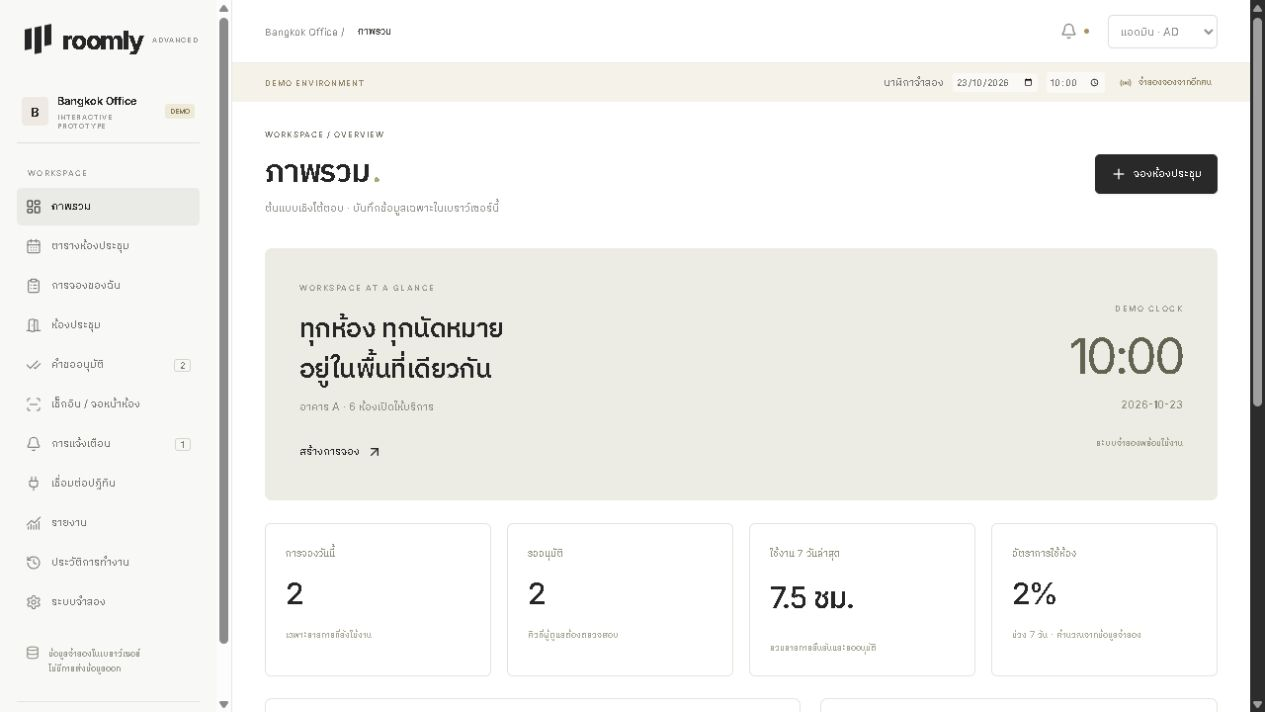
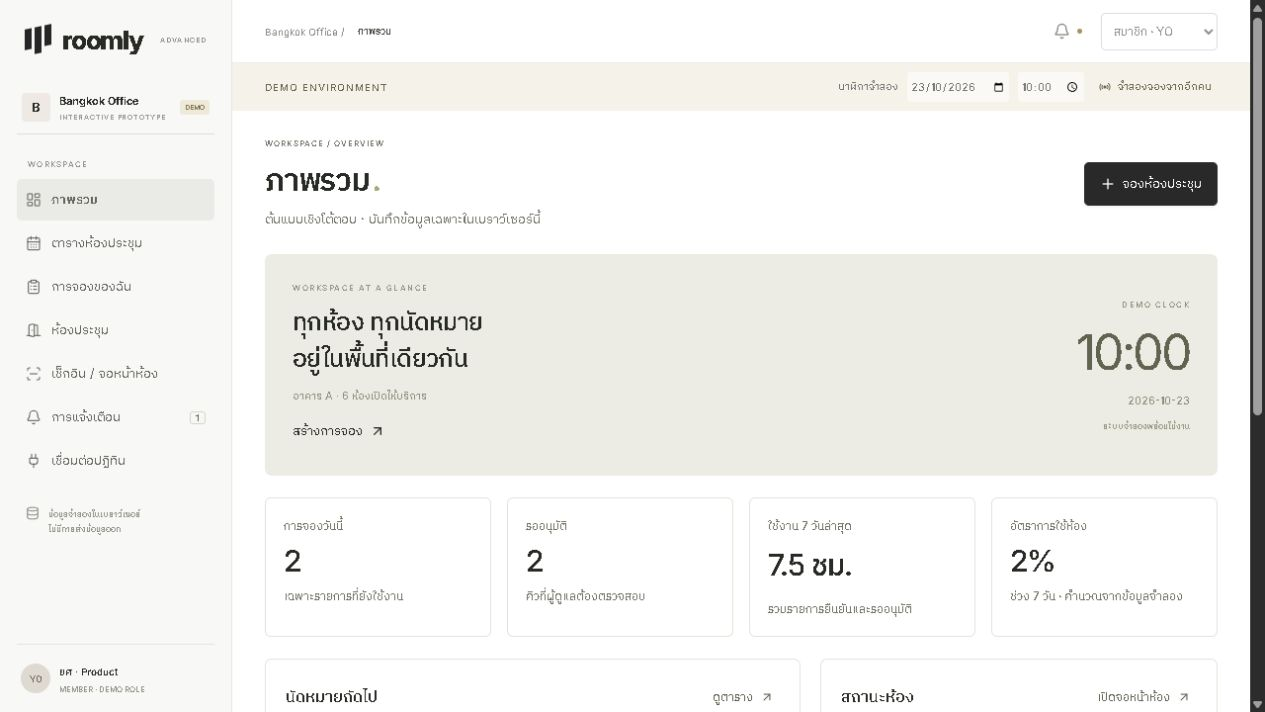
Improve dashboard readability and small-screen layouts

diff --git a/src/advanced.css b/src/advanced.css
@@ -1,1 +1,47 @@
 .advanced-app .sidebar{width:235px}.advanced-app .main-shell{margin-left:235px}.advanced-app main{padding-top:28px}.advanced-app .sidebar nav{gap:2px}.advanced-app nav button{padding:10px 9px}.demo-workspace{display:flex;gap:9px;align-items:center;margin:25px 0;padding:12px 5px;border-bottom:1px solid #ddd}.demo-workspace b{font-size:11px}.demo-workspace small{display:block;font-size:7px;color:#999;margin-top:5px;letter-spacing:.8px}.demo-tag{font-size:7px;margin-left:auto;background:#eee9d9;color:#877952;padding:3px 5px;border-radius:3px}.sidebar-demo-note{display:flex;gap:9px;font-size:9px;color:#96968b;line-height:1.7;margin:25px 9px}.header-tools select,.schedule-controls select,.list-toolbar select,.filter-row select{padding:8px;border:1px solid #ddd;border-radius:5px;background:white;font-size:11px}.bell-dot{width:5px;height:5px;border-radius:50%;background:#a99162}.demo-strip{background:#f4f2e9;padding:9px 33px;display:flex;justify-content:space-between;align-items:center;color:#948569;font-size:8px;gap:10px}.demo-strip>span{letter-spacing:1px;white-space:nowrap}.demo-strip>div,.demo-strip label{display:flex;align-items:center;gap:9px}.demo-strip input{border:0;background:#fff8;padding:3px;font-size:9px;border-radius:3px}.demo-strip button{font-size:9px}.overview-banner{background:#ecece4;padding:30px 35px;display:flex;justify-content:space-between;align-items:center;border-radius:7px;margin-bottom:23px;gap:20px}.overview-banner>div>span{font-size:8px;letter-spacing:1.5px;color:#939583}.overview-banner h2{font-size:27px;line-height:1.5;letter-spacing:-.6px;font-weight:500;margin:15px 0 10px}.overview-banner p{font-size:11px;color:#8e9180}.overview-banner button{padding:10px 0;margin-top:17px;font-size:11px}.banner-calendar{text-align:right;min-width:160px}.banner-calendar b{display:block;font-size:50px;letter-spacing:-3px;font-weight:400;color:#616451;margin:12px 0}.banner-calendar small{display:block;font-size:11px;color:#8d8d7c}.banner-calendar>div{font-size:9px;margin-top:25px;color:#9b9b87}.metric-grid{display:grid;grid-template-columns:repeat(4,1fr);gap:16px;margin:22px 0}.metric{padding:20px;border:1px solid #e3e3db;border-radius:6px}.metric>span{font-size:10px;color:#929280}.metric>b{display:block;font-size:30px;font-weight:500;margin:14px 0;letter-spacing:-1px}.metric>small{font-size:9px;color:#aaa997}.split-panels{display:grid;grid-template-columns:1.35fr 1fr;gap:20px}.panel{border:1px solid #e4e4dc;border-radius:7px;background:white;overflow:hidden}.panel-heading{padding:20px;display:flex;justify-content:space-between;align-items:center;border-bottom:1px solid #ededE6;gap:10px}.panel-heading h2{font-size:14px;font-weight:500}.panel-heading>span,.panel-heading button{font-size:9px;color:#999987}.upcoming-list>div{display:flex;align-items:center;gap:12px;padding:17px 20px;border-bottom:1px solid #f0f0e9}.date-tile{background:#f4f4ee;padding:7px 10px;min-width:42px;text-align:center;border-radius:4px}.date-tile b{display:block;font-size:17px;font-weight:500}.date-tile small{font-size:8px;color:#aaa}.grow{flex:1}.upcoming-list .grow>b{font-size:11px;font-weight:500}.upcoming-list p{font-size:9px;color:#aaa;margin-top:5px}.room-status-line{display:flex;gap:10px;align-items:center;padding:18px 20px;font-size:11px;border-bottom:1px solid #f0f0e9}.room-status-line small{margin-left:auto;color:#9e9e8b;font-size:9px}.status-badge{display:inline-flex;align-items:center;gap:5px;font-size:8px;padding:4px 7px;border-radius:4px;background:#f0f0eb;color:#8d8d7c;white-space:nowrap}.status-badge i{height:4px;width:4px;border-radius:50%;background:currentColor}.status-badge.confirmed{background:#eaf0ea;color:#647d64}.status-badge.pending{background:#faf0dd;color:#aa8540}.status-badge.checked_in{background:#e8eef7;color:#5e79a5}.status-badge.rejected,.status-badge.no_show{background:#f6e9e4;color:#aa7a67}.schedule-controls,.list-toolbar{display:flex;gap:10px;align-items:center;flex-wrap:wrap;margin-bottom:20px}.schedule-controls input,.list-toolbar input{padding:8px;border:1px solid #ddd;border-radius:4px;font-size:11px;background:white}.segmented{display:flex;border:1px solid #ddd;border-radius:5px;padding:3px}.segmented button{padding:6px 11px;font-size:10px;border-radius:3px;color:#aaa}.segmented .chosen{background:#ededE7;color:#333}.calendar-help{display:flex;gap:6px;font-size:9px;color:#aaa;margin-bottom:14px}.advanced-calendar{max-height:640px;overflow:auto;border:1px solid #deded5;border-radius:6px;scrollbar-width:thin}.advanced-calendar-grid{display:grid;grid-template-columns:55px repeat(var(--cols),minmax(150px,1fr));min-width:calc(55px + var(--cols)*150px)}.calendar-corner,.advanced-column-title{position:sticky;top:0;z-index:4;background:#fafaf7;height:65px;padding:17px 12px;border-bottom:1px solid #ddd}.calendar-corner{font-size:8px;color:#aaa;padding:25px 8px}.advanced-column-title{border-left:1px solid #e5e5dc}.advanced-column-title b{font-size:11px;font-weight:500}.advanced-column-title small{display:block;color:#aaa;font-size:8px;margin-top:7px}.time-cell{padding:13px 7px;font-size:9px;color:#aaa;border-bottom:1px solid #eee}.calendar-slot{position:relative;min-height:44px;border-bottom:1px solid #eaeae2;border-left:1px solid #eaeae2;padding:4px;background:white}.calendar-slot.occupied{background:#f7f7f1}.slot-add{position:absolute;inset:0;opacity:0;width:100%;height:100%;background:#efefe7;color:#999}.calendar-slot:hover>.slot-add{opacity:.7}.advanced-event{position:relative;background:var(--event-bg);color:var(--event-text);border-left:2px solid var(--event-border);border-radius:3px;z-index:1;padding:7px;margin-bottom:3px}.advanced-event>button{display:block;text-align:left;padding:0;width:100%;background:none}.advanced-event span{font-size:8px}.advanced-event b{display:block;font-size:10px;font-weight:500;margin-top:5px}.advanced-event small{display:block;font-size:8px;margin-top:5px}.advanced-event>div{display:flex;justify-content:space-between;margin-top:6px}.advanced-event .status-badge{font-size:7px;padding:2px 4px}.extend{font-size:8px;color:inherit;padding:2px}.data-table-wrap{overflow:auto;border:1px solid #e4e4dc;border-radius:6px}.data-table{width:100%;border-collapse:collapse;min-width:700px;text-align:left;font-size:11px}.data-table th{padding:15px 18px;background:#f8f8f4;font-weight:400;color:#999;font-size:10px}.data-table td{padding:17px 18px;border-top:1px solid #ebebe3}.data-table b{font-size:11px;font-weight:500}.data-table small{display:block;color:#999;font-size:9px;margin-top:6px}.table-actions{display:flex;gap:5px}.section-intro{margin-bottom:20px}.section-intro h2{font-size:18px;font-weight:500}.section-intro p{color:#999;font-size:11px;margin-top:7px}.approval-grid{display:grid;grid-template-columns:repeat(2,1fr);gap:20px}.approval-card{padding:22px}.approval-top{display:flex;justify-content:space-between;align-items:center;margin-bottom:20px;font-size:10px;color:#999}.approval-card h3{font-size:17px;font-weight:500;margin-bottom:10px}.approval-card p{font-size:11px;color:#999}.approval-person{display:flex;gap:7px;margin:20px 0;font-size:11px;color:#888}.approval-card label{margin-top:20px}.approval-actions{display:flex;justify-content:flex-end;gap:10px;margin-top:20px}.advanced-app label,.adv-dialog label{font-size:11px;color:#777}.approval-card input,.adv-dialog input,.adv-dialog select,.adv-dialog textarea{display:block;border:1px solid #dddcd2;padding:10px;border-radius:5px;width:100%;background:white;font-size:12px;margin-top:7px}.approval-card label,.adv-dialog label{display:block;margin-bottom:17px}.room-policy{display:flex;justify-content:space-between;font-size:9px;color:#999;margin-bottom:15px}.muted{font-size:10px!important;color:#aaa!important;line-height:1.8}.room-card p.muted{margin-bottom:10px}.door-display{background:#edf1e7;border:1px solid #dde3d6;border-radius:9px;padding:35px;display:grid;grid-template-columns:1fr 1fr;gap:30px;margin-bottom:24px}.door-display.busy{background:#f3ede1;border-color:#e7deca}.door-display>div>span{font-size:9px;letter-spacing:1px;color:#8b927d}.door-display h2{font-size:36px;font-weight:500;letter-spacing:-1px;margin:15px 0}.door-display p{font-size:13px;color:#8c947e}.door-clock{font-size:60px;display:block;font-weight:400;letter-spacing:-3px;margin-top:20px;color:#606c53}.door-display small{font-size:10px;color:#939d87}.door-next{padding:15px 0 0 25px;border-left:1px solid #dce1d0}.door-next h3{font-size:22px;font-weight:500;margin:25px 0 10px}.door-code{display:flex;gap:15px;align-items:center;margin-top:30px}.door-code svg{flex-shrink:0;border-radius:4px}.door-code p{font-size:9px;line-height:1.9}.wall-mode{min-height:440px}.checkin-row{display:flex;align-items:center;gap:15px;padding:20px;border-top:1px solid #eee}.checkin-row>div{flex:1}.checkin-row b{font-size:12px;font-weight:500}.checkin-row p{font-size:10px;color:#999;margin-top:6px}.qr-dialog{text-align:center;padding:30px}.qr-dialog h3{margin:20px 0 10px;font-size:18px;font-weight:500}.qr-dialog p{font-size:11px;color:#999;margin-bottom:15px}.simulation-callout{display:flex;align-items:center;gap:15px;padding:20px;background:#f5f4ec;border:1px solid #e7e5d8;border-radius:6px;margin-bottom:23px;color:#8a866c}.simulation-callout b{font-size:13px;font-weight:500}.simulation-callout p{font-size:10px;margin-top:8px}.integration-grid{display:grid;grid-template-columns:1fr 1fr;gap:22px}.integration-card{padding:30px}.provider-logo{height:46px;width:46px;display:grid;place-items:center;border:1px solid #ddd;border-radius:10px;font-size:24px;font-weight:600;color:#6881b0}.provider-logo.outlook{color:#488cb5}.integration-card h2{font-size:21px;font-weight:500;margin:24px 0 10px}.integration-card p{color:#999;font-size:11px}.connection-state{display:block;font-size:10px;color:#aaa;margin:25px 0 16px}.connection-state.connected{color:#6b8c6b}.sync-panel{display:flex;justify-content:space-between;align-items:center;padding:25px;margin-top:24px}.sync-panel h2{font-size:14px;font-weight:500}.sync-panel p{font-size:10px;color:#999;margin-top:8px}.integration-confirm{padding:25px;font-size:12px;line-height:2}.integration-confirm .primary{margin-top:20px}.ics-export{display:flex;justify-content:space-between;align-items:center;font-size:10px;color:#999;padding:24px 0}.report-panel{padding:24px}.report-panel h2{font-size:15px;font-weight:500}.report-panel>p{font-size:10px;color:#aaa;margin:8px 0 25px}.bar-row{display:flex;align-items:center;gap:12px;margin:20px 0;font-size:10px}.bar-row>span{width:100px;color:#777}.bar-row>div{height:7px;background:#f1f1e8;border-radius:2px;flex:1;overflow:hidden}.bar-row i{display:block;height:100%;background:#a6ad91}.bar-row b{font-weight:400;width:25px;text-align:right;color:#888}.peak-chart{display:flex;gap:10px;align-items:flex-end;height:210px;padding-top:15px}.peak-chart>div{flex:1;display:flex;flex-direction:column;align-items:center;gap:10px;font-size:8px;color:#aaa}.peak-chart i{display:block;background:#b0b6c8;width:100%;border-radius:3px 3px 0 0}.peak-chart b{font-size:9px;font-weight:400}.report-footnote{margin-top:18px}.audit-list>div{display:flex;gap:15px;padding:19px 24px;border-bottom:1px solid #eee}.audit-dot{width:6px;height:6px;background:#c3c3ad;border-radius:50%;margin-top:5px}.audit-list b{font-size:12px;font-weight:500}.audit-list p{font-size:10px;color:#888;margin-top:7px}.audit-list small{display:block;font-size:9px;color:#aaa;margin-top:9px}.notifications-list>button{display:flex;align-items:flex-start;width:100%;text-align:left;padding:22px;gap:15px;border-bottom:1px solid #eee}.notifications-list>button.unread{background:#fafaf5}.notification-dot{width:6px;height:6px;background:#ddd;border-radius:50%;margin-top:5px}.unread .notification-dot{background:#879570}.notifications-list b{font-size:12px;font-weight:500}.notifications-list p{font-size:11px;color:#999;margin-top:7px}.notifications-list small{display:block;font-size:9px;color:#aaa;margin-top:10px}.new-label{margin-left:auto;font-size:8px;color:#8c9579}.settings-panel{padding:25px;margin-bottom:20px}.settings-panel h2{font-size:16px;font-weight:500;margin-bottom:20px}.user-row{display:flex;gap:12px;align-items:center;padding:17px 0;border-top:1px solid #eee}.user-row>div{flex:1}.user-row b{font-size:12px;font-weight:500}.user-row p{font-size:10px;color:#999;margin-top:6px}.scenario-actions{display:flex;gap:12px;flex-wrap:wrap;margin-bottom:20px}.adv-overlay{padding:24px!important;justify-content:center!important}.adv-dialog{background:#fff;width:550px;max-width:100%;max-height:92vh;overflow:auto;border-radius:9px;box-shadow:0 20px 100px #0002}.adv-dialog.wide{width:1040px}.dialog-top{display:flex;align-items:center;justify-content:space-between;padding:24px 28px;border-bottom:1px solid #eee}.dialog-top small{font-size:8px;color:#aaa;letter-spacing:1px}.dialog-top h2{font-size:23px;font-weight:500;margin-top:9px}.booking-editor{display:grid;grid-template-columns:minmax(0,1fr) 245px}.editor-main{padding:25px}.editor-summary{padding:28px 22px;background:#f8f8f3;border-left:1px solid #e8e8df}.summary-step{font-size:8px;color:#aaa;letter-spacing:1px}.editor-summary h3{font-size:19px;font-weight:500;margin:23px 0 10px}.editor-summary>p{font-size:11px;color:#999}.editor-summary dl{display:grid;gap:9px;margin:25px 0}.editor-summary dt{font-size:9px;color:#aaa;margin-top:7px}.editor-summary dd{font-size:11px;margin:0;color:#666}.summary-note{font-size:10px!important;line-height:1.8;margin-top:20px!important}.dialog-actions{display:flex;justify-content:flex-end;gap:12px;border-top:1px solid #eee;padding:20px 25px;grid-column:1/-1}.editor-error{grid-column:1/-1;margin:0 25px 15px}.room-rule{display:flex;gap:10px;font-size:9px;color:#999;margin-bottom:18px;align-items:center;flex-wrap:wrap}.form-grid.three{grid-template-columns:repeat(3,1fr)}.adv-dialog label>span{display:flex;align-items:center;gap:5px}.adv-dialog .scheduler-times{max-height:300px}.adv-dialog .scheduler-slots{gap:7px}.adv-dialog .scheduler-slots button{padding:7px}.check-label{display:flex!important;align-items:center;gap:8px!important;font-size:11px!important}.check-label input{width:13px!important;height:13px!important;margin:0!important;accent-color:#333}.room-edit-form{padding:24px}.room-edit-form fieldset{border:1px solid #eee;border-radius:5px;padding:15px;margin:10px 0 20px;display:flex;flex-wrap:wrap;gap:15px}.room-edit-form legend{font-size:10px;color:#999}.room-edit-form fieldset label{margin:0}.closure-tags{display:flex;gap:7px;flex-wrap:wrap;margin:12px 0}.closure-tags button{font-size:10px;padding:7px;background:#f4f4ed;border-radius:4px}.confirm-body{padding:25px;line-height:1.9;color:#888;font-size:12px}.confirm-body .check-label{margin-top:20px}.toast{max-width:calc(100vw - 25px);white-space:normal;font-size:11px}.toast button{color:white;padding:2px}.advanced-app button:disabled,.adv-dialog button:disabled{opacity:.45;cursor:not-allowed}.advanced-app .room-card-footer button:disabled{opacity:.3}@media(max-width:1100px){.split-panels{grid-template-columns:1fr}.advanced-app .sidebar{width:210px}.advanced-app .main-shell{margin-left:210px}.metric-grid{gap:10px}.metric{padding:16px}.metric>b{font-size:25px}.demo-strip{padding:9px 24px}.booking-editor{grid-template-columns:minmax(0,1fr) 200px}.scheduler-content{grid-template-columns:1fr}.editor-main .scheduler-slots{grid-template-columns:repeat(5,1fr)}}@media(max-width:850px){.advanced-app .sidebar{display:none}.advanced-app .sidebar.open{display:flex}.advanced-app .main-shell{margin-left:0}.demo-strip{flex-wrap:wrap}.advanced-app header{padding:0 17px}.advanced-app .mobile-toggle{display:inline-flex}.booking-editor{grid-template-columns:1fr}.editor-summary{display:none}.adv-dialog.wide{max-width:660px}}@media(max-width:600px){.overview-banner{padding:25px;align-items:flex-start}.overview-banner h2{font-size:22px}.banner-calendar{min-width:90px}.banner-calendar b{font-size:33px}.banner-calendar>div{display:none}.metric-grid{grid-template-columns:1fr 1fr}.approval-grid,.integration-grid{grid-template-columns:1fr}.demo-strip>div{flex-wrap:wrap}.demo-strip label{font-size:8px}.demo-strip{padding:10px 16px}.demo-strip>span{display:none}.header-tools select{max-width:140px;font-size:10px}.advanced-app header>div{gap:7px}.advanced-app header>div>span{display:none}.door-display{grid-template-columns:1fr;padding:25px}.door-next{padding:20px 0 0;border-left:0;border-top:1px solid #ddd}.door-display h2{font-size:30px}.door-clock{font-size:45px}.checkin-row{flex-wrap:wrap}.checkin-row>div{flex-basis:100%}.adv-overlay{padding:10px!important}.dialog-top{padding:20px}.editor-main{padding:16px}.adv-dialog .form-grid{gap:10px}.adv-dialog .form-grid:not(.three){grid-template-columns:1fr}.dialog-top h2{font-size:20px}.scheduler-content{padding:10px}.scheduler-calendar .rdp-root{max-width:290px}.sync-panel{gap:15px;flex-wrap:wrap}.ics-export{gap:15px}.schedule-controls{gap:7px}.panel-heading{padding:16px}.upcoming-list>div{padding:15px;gap:8px}.upcoming-list .status-badge{font-size:7px}.user-row{flex-wrap:wrap}}
+
+/* Readable type and compact layouts for the interactive prototype. */
+.advanced-app { color: #282b25; }
+.advanced-app nav button { min-height: 42px; font-size: 13px; color: #62665c; }
+.advanced-app .page-heading { margin-bottom: 24px; }
+.advanced-app .page-heading p { font-size: 13px; color: #717568; }
+.advanced-app .overview-banner { padding: 24px 28px; margin-bottom: 18px; }
+.advanced-app .overview-banner h2 { margin: 10px 0; font-size: 25px; }
+.advanced-app .overview-banner button { margin-top: 5px; min-height: 40px; font-size: 13px; }
+.advanced-app .banner-calendar > div { margin-top: 12px; }
+.advanced-app .metric { padding: 18px; }
+.advanced-app .metric > span, .advanced-app .metric > small { font-size: 12px; color: #707566; line-height: 1.6; }
+.advanced-app .metric > b { margin: 8px 0; }
+.advanced-app .panel-heading h2 { font-size: 16px; }
+.advanced-app .panel-heading button { font-size: 12px; color: #5e6653; min-height: 36px; }
+.advanced-app .upcoming-list .grow > b, .advanced-app .room-status-line, .advanced-app .data-table b { font-size: 13px; }
+.advanced-app .upcoming-list p, .advanced-app .room-status-line small, .advanced-app .data-table small { font-size: 12px; color: #707568; line-height: 1.6; }
+.advanced-app .status-badge { font-size: 11px; padding: 5px 8px; }
+.advanced-app .data-table { font-size: 13px; }
+.advanced-app .data-table th { font-size: 12px; color: #656b5e; }
+.advanced-app .primary, .advanced-app .secondary, .adv-dialog .primary, .adv-dialog .secondary { min-height: 42px; font-size: 13px; }
+.advanced-app .calendar-help, .advanced-app .section-intro p { font-size: 12px; color: #68705f; line-height: 1.7; }
+.advanced-app .demo-strip { font-size: 10px; color: #6e664f; }
+.advanced-app .demo-strip input, .advanced-app .demo-strip button { font-size: 11px; min-height: 30px; }
+.advanced-app .header-tools select { font-size: 12px; min-height: 38px; }
+.advanced-app .advanced-column-title b { font-size: 13px; }
+.advanced-app .advanced-column-title small, .advanced-app .time-cell { font-size: 11px; color: #6f7466; }
+.advanced-app .advanced-event b { font-size: 12px; }
+.advanced-app .advanced-event span, .advanced-app .advanced-event small { font-size: 10px; }
+.advanced-app .advanced-event .status-badge { font-size: 9px; }
+.advanced-app .extend { font-size: 11px; min-height: 30px; }
+@media (max-width: 600px) {
+  .advanced-app .overview-banner { padding: 20px; }
+  .advanced-app .overview-banner h2 { font-size: 21px; }
+  .advanced-app .banner-calendar { display: none; }
+  .advanced-app .metric-grid { gap: 10px; }
+  .advanced-app .metric { padding: 14px; }
+  .advanced-app .metric > b { font-size: 28px; }
+  .advanced-app .upcoming-list > div { flex-wrap: wrap; }
+  .advanced-app .upcoming-list .grow { min-width: 150px; }
+  .advanced-app .upcoming-list .status-badge { margin-left: 50px; }
+  .advanced-app .page-heading > .primary { width: 100%; }
+  .advanced-app .demo-strip label { flex-wrap: wrap; font-size: 11px; }
+  .advanced-app .icon-button { min-width: 40px; min-height: 40px; }
+  .advanced-app .sidebar.open { width: min(290px, 85vw); bottom: 0; }
+}

diff --git a/src/advanced-app.jsx b/src/advanced-app.jsx
@@ -12,6 +12,8 @@ function load(){try{const s=JSON.parse(localStorage.getItem(STORE_KEY));if(s?.ve
 const NAV=[['overview',LayoutDashboard,'ภาพรวม'],['calendar',CalendarDays,'ตารางห้องประชุม'],['bookings',ClipboardList,'การจองของฉัน'],['rooms',DoorOpen,'ห้องประชุม'],['approvals',CheckCheck,'คำขออนุมัติ','manager'],['checkin',ScanLine,'เช็กอิน / จอหน้าห้อง'],['notifications',Bell,'การแจ้งเตือน'],['connections',Plug,'เชื่อมต่อปฏิทิน'],['reports',ChartNoAxesCombined,'รายงาน','manager'],['audit',History,'ประวัติการทำงาน','manager'],['settings',Settings,'ระบบจำลอง','admin']];
 function App(){const [state,setState]=useState(load),[userId,setUserId]=useState('u1'),[page,setPage]=useState('overview'),[editor,setEditor]=useState(null),[roomEditor,setRoomEditor]=useState(null),[confirm,setConfirm]=useState(null),[toast,setToast]=useState(''),[mobile,setMobile]=useState(false),[storageError,setStorageError]=useState(false);const user=USERS.find(u=>u.id===userId),unread=state.notifications.filter(n=>!n.read).length;const nav=NAV.filter(n=>!n[3]||n[3]==='manager'&&user.role!=='member'||n[3]==='admin'&&user.role==='admin');
 useEffect(()=>{try{localStorage.setItem(STORE_KEY,JSON.stringify(state));setStorageError(false);}catch{setStorageError(true);}},[state]);useEffect(()=>{function sync(e){if(e.key===STORE_KEY&&e.newValue){try{const s=JSON.parse(e.newValue);if(s.version===1){setState(s);setToast('รับการเปลี่ยนแปลงจากอีกแท็บแล้ว');}}catch{}}}window.addEventListener('storage',sync);return()=>window.removeEventListener('storage',sync);},[]);useEffect(()=>{if(toast){const t=setTimeout(()=>setToast(''),4500);return()=>clearTimeout(t);}},[toast]);
+useEffect(()=>{window.scrollTo({top:0,left:0,behavior:'instant'});setMobile(false);},[page]);
+useEffect(()=>{if(!mobile)return;function closeOnEscape(event){if(event.key==='Escape')setMobile(false);}window.addEventListener('keydown',closeOnEscape);return()=>window.removeEventListener('keydown',closeOnEscape);},[mobile]);
 function commit(action,detail,update){setState(prev=>{const next=update(prev),time=new Date().toISOString();return {...next,audit:[{id:crypto.randomUUID(),action,detail,actor:user.name,time},...next.audit].slice(0,200),notifications:[{id:crypto.randomUUID(),title:action,body:detail,read:false,time},...next.notifications].slice(0,100)};});setToast(action);}
 function switchUser(id){setUserId(id);setPage('overview');setMobile(false);setEditor(null);setRoomEditor(null);setConfirm(null);}
 function openBook(initial={}){setEditor({date:state.clock.date,room:state.rooms.find(r=>r.enabled)?.id||1,...initial});}
